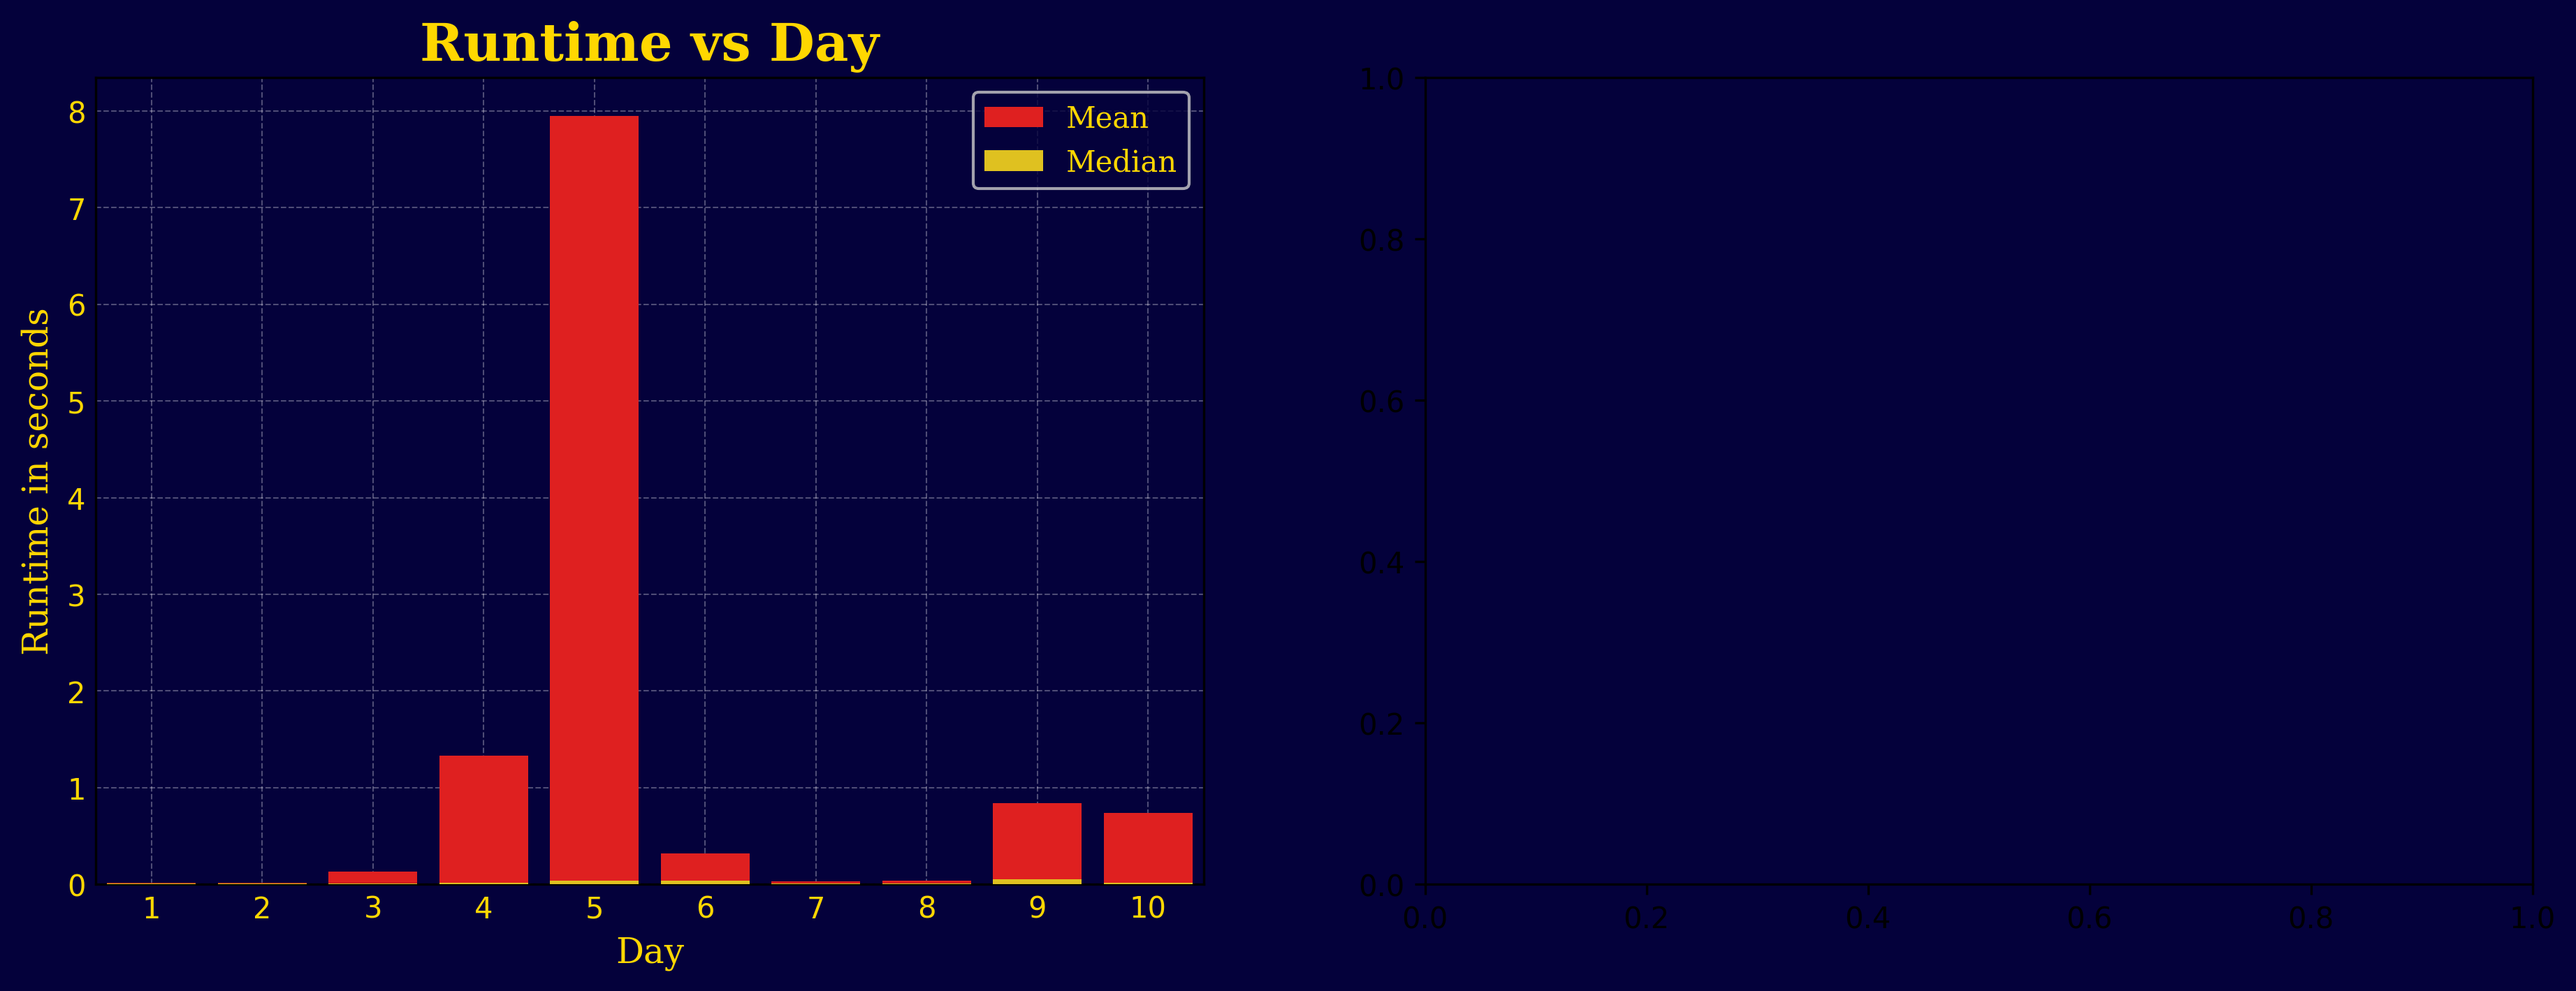
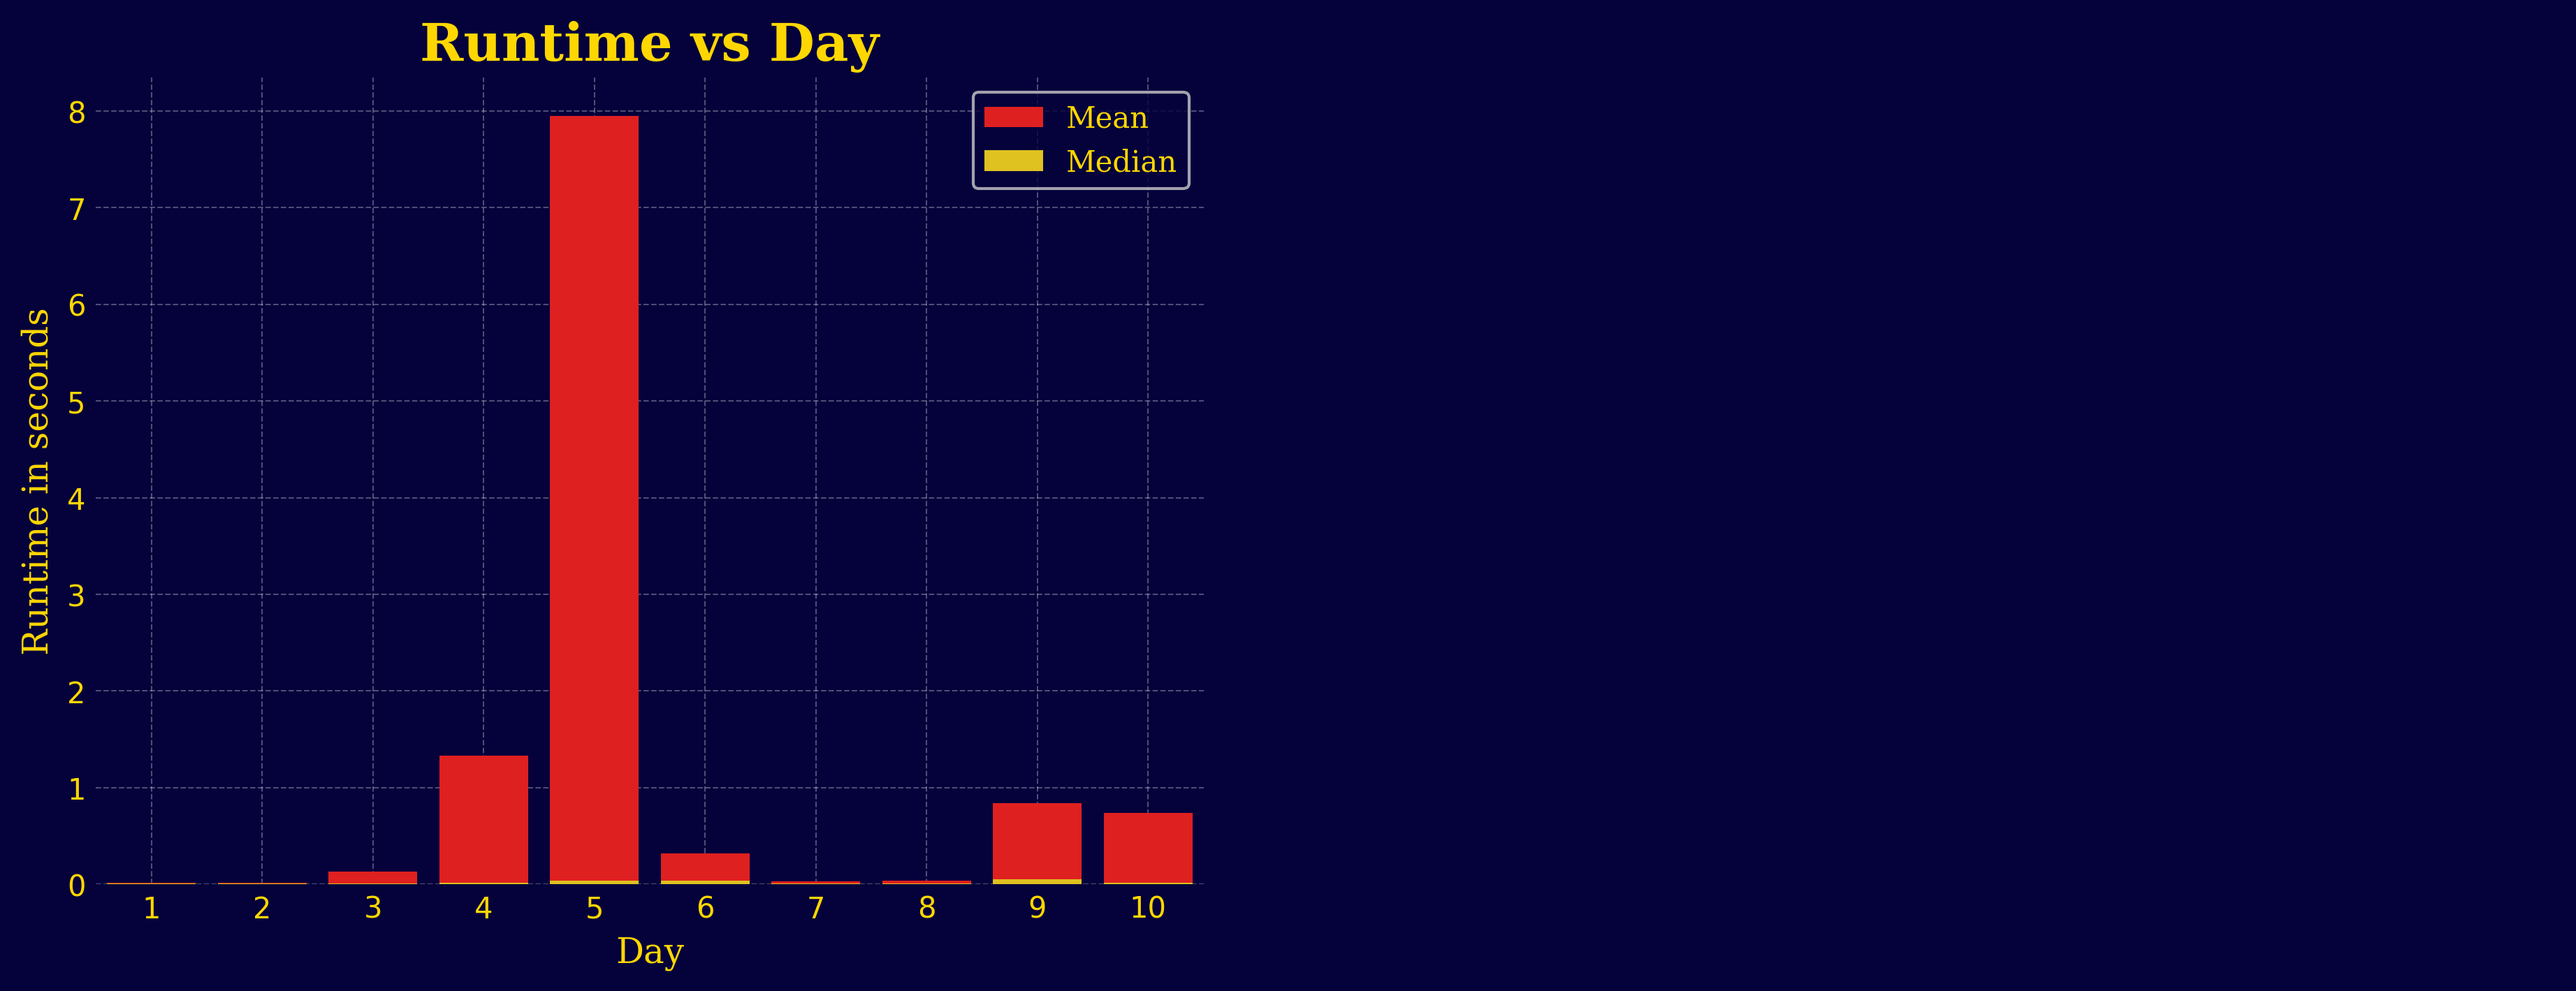
update

diff --git a/assets/style.css b/assets/style.css
@@ -2,7 +2,6 @@
 footer {visibility: hidden;}
 header {visibility: hidden;}
 
-
 /* 
 From the config file: 
 primaryColor="#FF0000"
@@ -11,7 +10,6 @@ secondaryBackgroundColor="#001d00"
 textColor="#FFD700"
 font="serif"
 */
-
 
 /* Style for all links */
 a {
@@ -23,7 +21,6 @@ a {
     a:link {
     color: green;
     }
-
 
     /* Style for visited links */
     a:visited {
@@ -41,6 +38,12 @@ a {
         color: yellow;
     }
   
+/* Fix sidebar width */
 section[data-testid="stSidebar"] {
     width: 50px !important; 
+}
+
+/* Disable anchor tags */
+a.st-emotion-cache-kwu7in.e1nzilvr3 {       
+    display: none;
 }

diff --git a/my_functions/plots.py b/my_functions/plots.py
@@ -89,6 +89,8 @@ def plot_runtime():
         ax.grid(True, linestyle='--', linewidth=0.5, color=grid_color, alpha=0.3)
         ax.set_facecolor('#04013b')
         ax.tick_params(axis='both', colors=text_color, length=0)
+        for spine in ax.spines.values():
+            spine.set_visible(False)
 
     fig.patch.set_facecolor(background_color)
     ax1.set_ylabel('Runtime in seconds', fontdict=label_font)
@@ -97,8 +99,8 @@ def plot_runtime():
     handles, labels = ax1.get_legend_handles_labels()
     legend = fig.legend(handles, labels, loc='lower center', ncol=3, facecolor=background_color)
     for text in legend.get_texts():
-                text.set_color(text_color)
-                text.set_font('serif')
+        text.set_color(text_color)
+        text.set_font('serif')
 
     # Save the plot      
     plt.savefig(RUNTIME_PLOT_PATH, bbox_inches='tight', dpi=300)
@@ -130,6 +132,8 @@ def plot_runtime2():
         ax.grid(True, linestyle='--', linewidth=0.5, color=grid_color, alpha=0.3)
         ax.set_facecolor(background_color)
         ax.tick_params(axis='both', colors=text_color, length=0)
+        for spine in ax.spines.values():
+            spine.set_visible(False)
 
     fig.patch.set_facecolor(background_color)
     ax1.set_ylabel('Runtime in seconds', fontdict=label_font)
@@ -138,8 +142,8 @@ def plot_runtime2():
     handles, labels = ax1.get_legend_handles_labels()
     legend = fig.legend(handles, labels, loc='lower center', ncols=2, facecolor=background_color)
     for text in legend.get_texts():
-                text.set_color(text_color)
-                text.set_font('serif')
+        text.set_color(text_color)
+        text.set_font('serif')
 
     # Save the plot      
     plt.savefig(RUNTIME_PLOT_PATH2, bbox_inches='tight', dpi=300)
@@ -170,12 +174,18 @@ def plot_runtime_year():
     ax.set_ylabel('Runtime in seconds', fontdict=label_font)
     ax.grid(True, linestyle='--', linewidth=0.5, color=grid_color, alpha=0.3)
     ax.tick_params(axis='both', colors=text_color, length=0)
+    ax_empty.tick_params(axis='both', colors=background_color, length=0)
     ax.set_facecolor(background_color)
     ax_empty.set_facecolor(background_color)
-    legend = ax.legend(facecolor=background_color)
+    for ax_ in (ax, ax_empty):
+        for spine in ax_.spines.values():
+            spine.set_visible(False)
+            
+    handles, labels = ax.get_legend_handles_labels()
+    legend = ax.legend(handles, labels, facecolor=background_color)
     for text in legend.get_texts():
-                text.set_color(text_color)
-                text.set_font('serif')
+        text.set_color(text_color)
+        text.set_font('serif')
 
     # Save the plot      
     plt.savefig(RUNTIME_YEAR_PLOT_PATH, bbox_inches='tight', dpi=300)
@@ -206,12 +216,18 @@ def plot_runtime_day():
     ax.set_ylabel('Runtime in seconds', fontdict=label_font)
     ax.grid(True, linestyle='--', linewidth=0.5, color=grid_color, alpha=0.3)
     ax.tick_params(axis='both', colors=text_color, length=0)
+    ax_empty.tick_params(axis='both', colors=background_color, length=0)
     ax.set_facecolor(background_color)
     ax_empty.set_facecolor(background_color)
-    legend = ax.legend(facecolor=background_color)
+    for ax_ in (ax, ax_empty):
+        for spine in ax_.spines.values():
+            spine.set_visible(False)
+            
+    handles, labels = ax.get_legend_handles_labels()
+    legend = ax.legend(handles, labels, facecolor=background_color)
     for text in legend.get_texts():
-                text.set_color(text_color)
-                text.set_font('serif')
+        text.set_color(text_color)
+        text.set_font('serif')
 
     # Save the plot      
     plt.savefig(RUNTIME_DAY_PLOT_PATH, bbox_inches='tight', dpi=300)
@@ -242,12 +258,18 @@ def plot_runtime_part():
     ax.set_ylabel('Runtime in seconds', fontdict=label_font)
     ax.grid(True, linestyle='--', linewidth=0.5, color=grid_color, alpha=0.3)
     ax.tick_params(axis='both', colors=text_color, length=0)
+    ax_empty.tick_params(axis='both', colors=background_color, length=0)
     ax.set_facecolor(background_color)
     ax_empty.set_facecolor(background_color)
-    legend = ax.legend(facecolor=background_color)
+    for ax_ in (ax, ax_empty):
+        for spine in ax_.spines.values():
+            spine.set_visible(False)
+            
+    handles, labels = ax.get_legend_handles_labels()
+    legend = ax.legend(handles, labels, facecolor=background_color)
     for text in legend.get_texts():
-                text.set_color(text_color)
-                text.set_font('serif')
+        text.set_color(text_color)
+        text.set_font('serif')
 
     # Save the plot      
     plt.savefig(RUNTIME_PART_PLOT_PATH, bbox_inches='tight', dpi=300)
@@ -278,13 +300,19 @@ def plot_runtime_part2():
     ax.set_ylabel('Runtime in seconds', fontdict=label_font)
     ax.grid(True, linestyle='--', linewidth=0.5, color=grid_color, alpha=0.3)
     ax.tick_params(axis='both', colors=text_color, length=0)
+    ax_empty.tick_params(axis='both', colors=background_color, length=0)
     ax.set_facecolor(background_color)
     ax_empty.set_facecolor(background_color)
+    for ax_ in (ax, ax_empty):
+        for spine in ax_.spines.values():
+            spine.set_visible(False)
+            
     handles, labels = ax.get_legend_handles_labels()
-    legend = fig.legend(handles, labels, loc='lower center', ncol=3, facecolor=background_color)
+    legend = ax.legend(handles, labels, facecolor=background_color)
     for text in legend.get_texts():
-                text.set_color(text_color)
-                text.set_font('serif')
+        text.set_color(text_color)
+        text.set_font('serif')  
+
 
     # Save the plot      
     plt.savefig(RUNTIME_PART_PLOT_PATH2, bbox_inches='tight', dpi=300)
